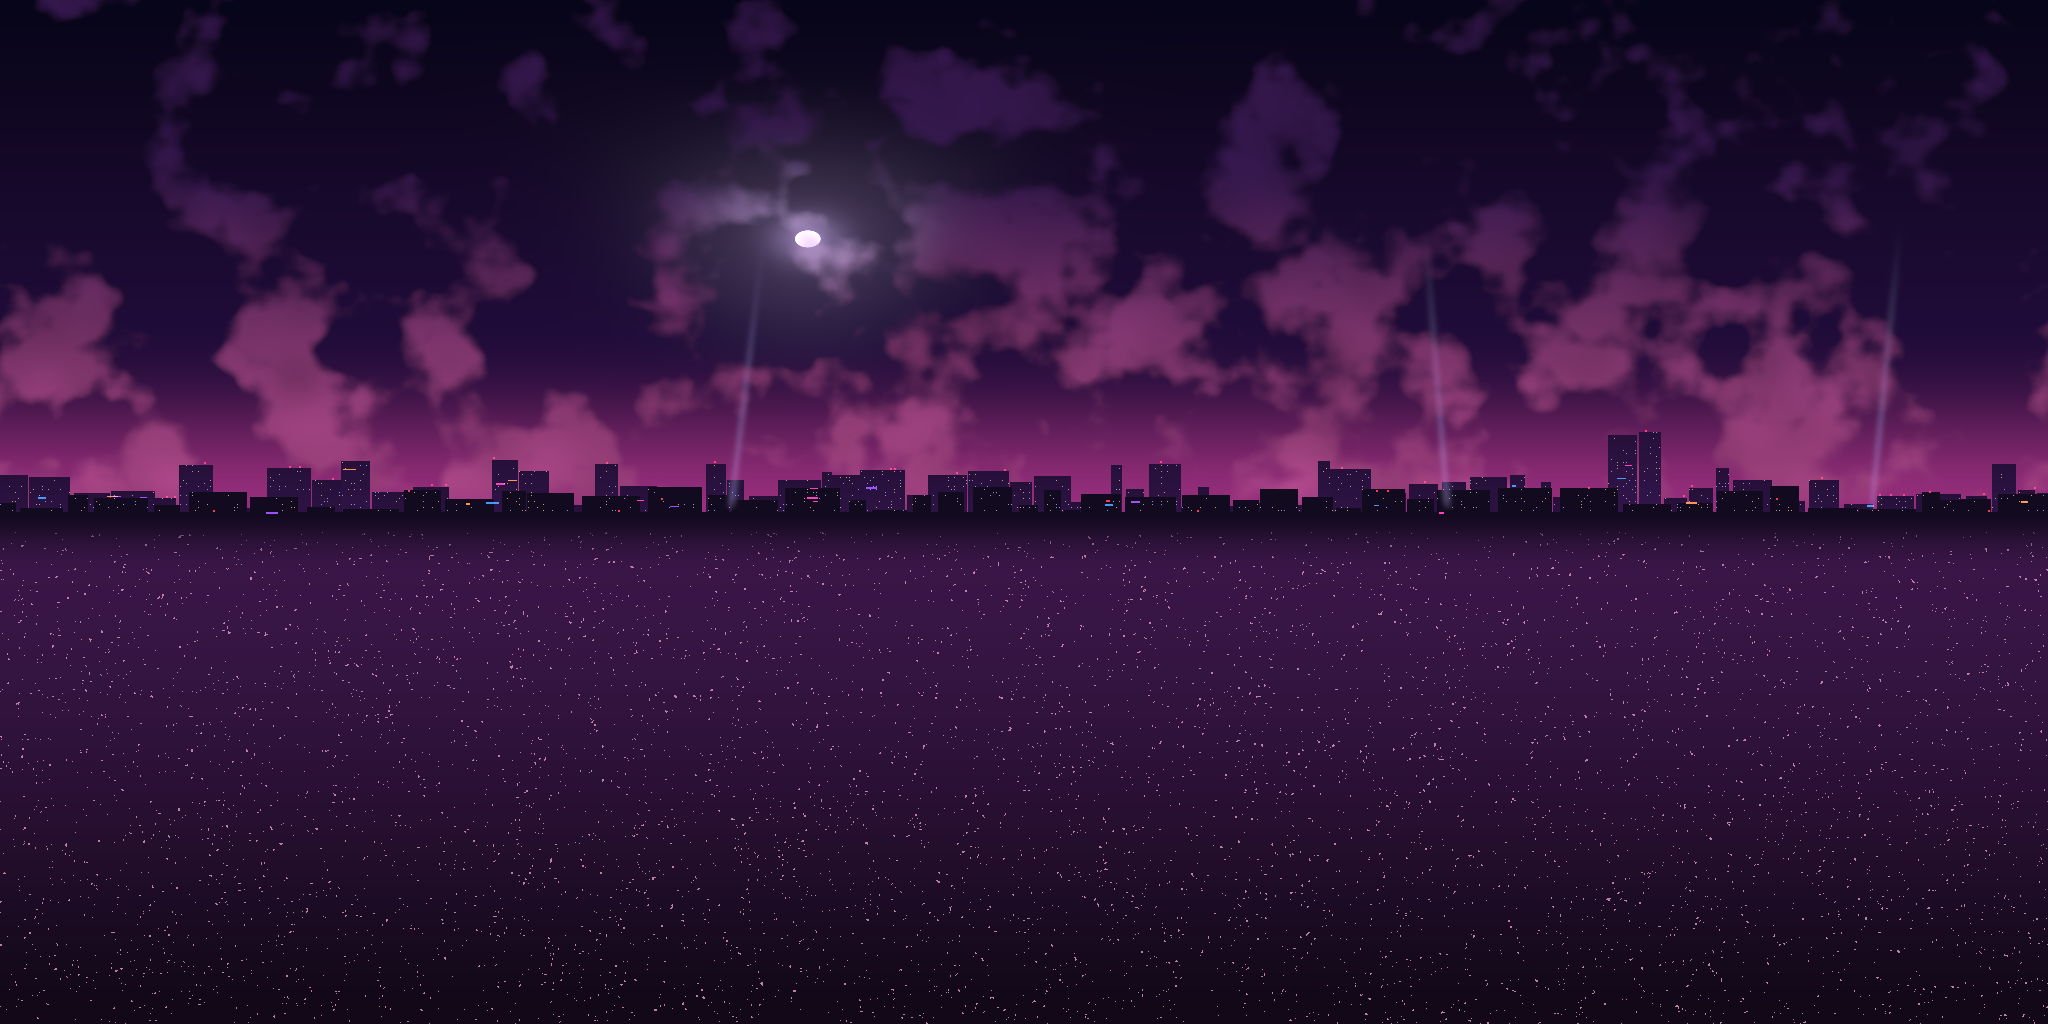
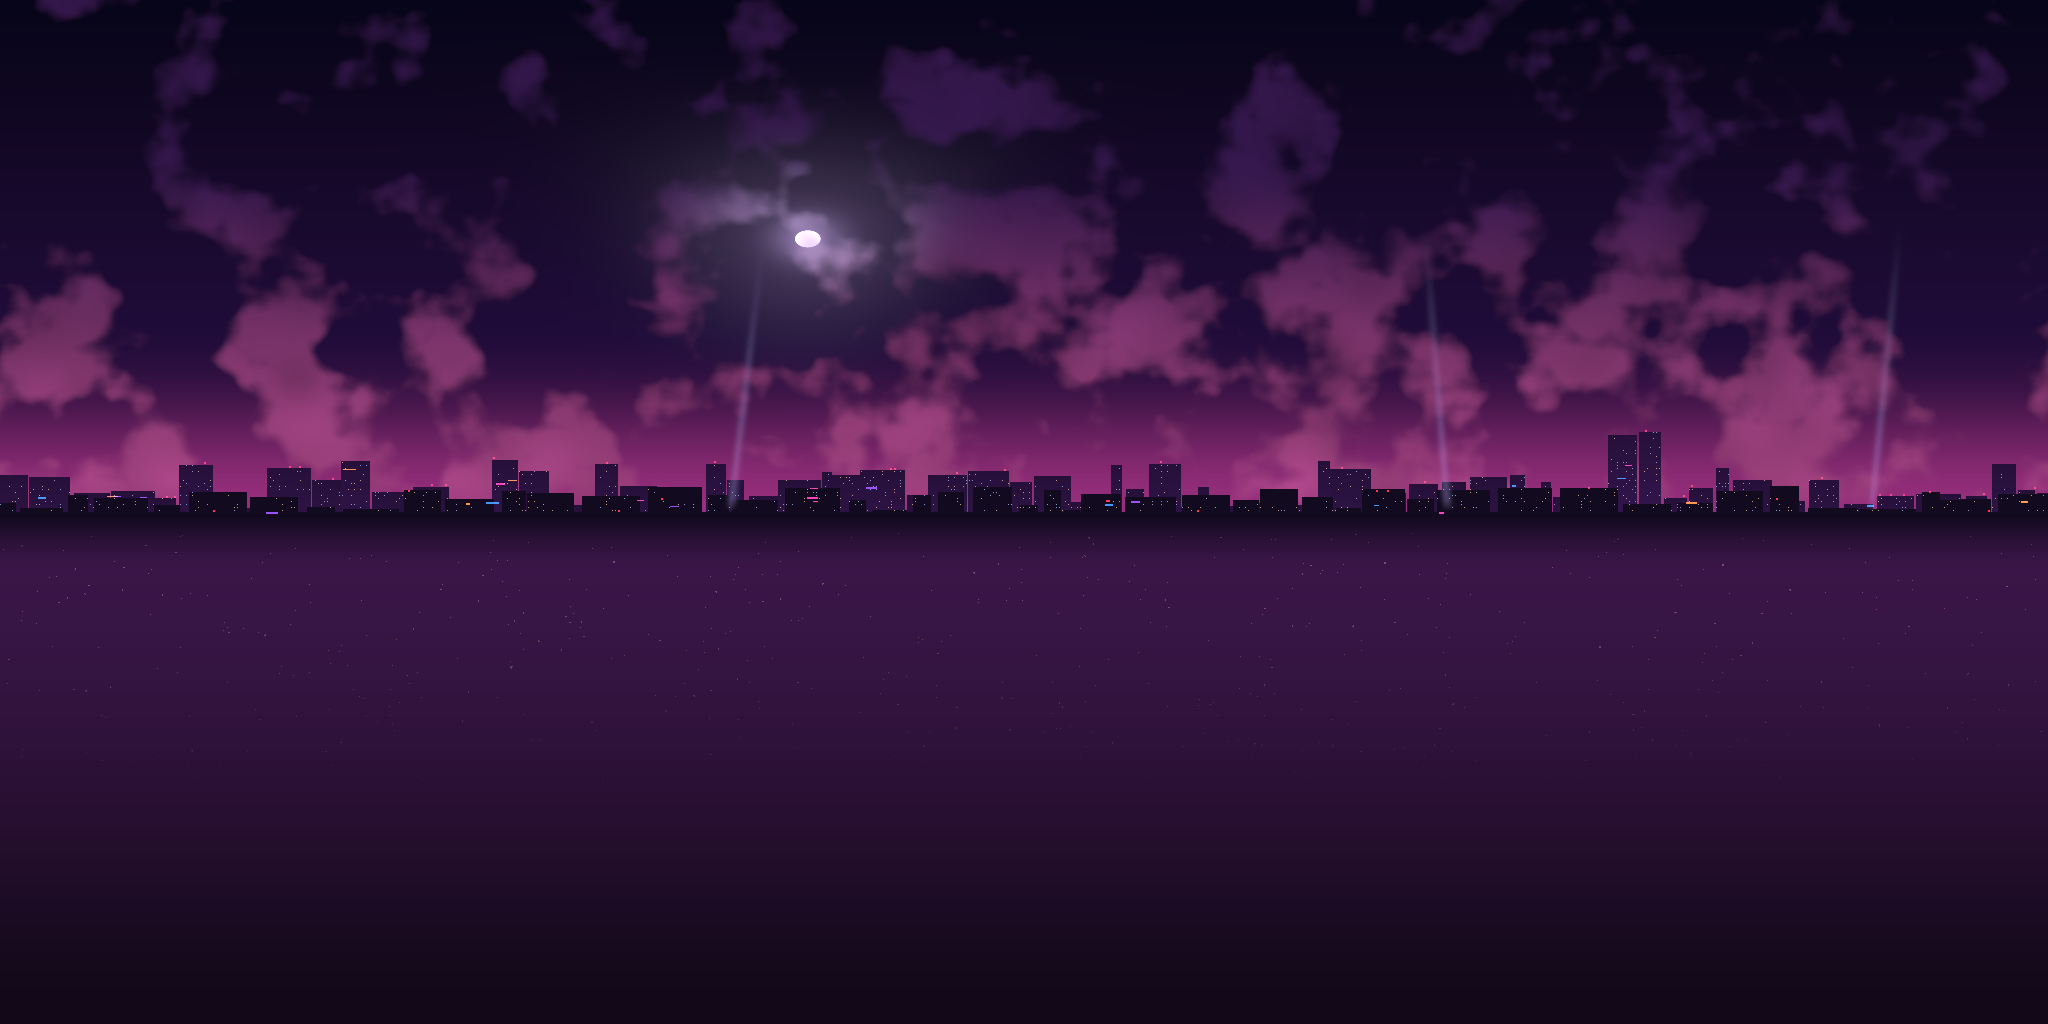
Cité Néon : coque affinée (dalles de tailles mêlées, flaques moins étendues, reflets filtrés, écrans dans les reflets, brume en un seul maillage, taxis visibles, lumière de façade synchronisée)
Claude-Session: https://claude.ai/code/session_01BmWAVzLKtnnuhUYh1cewCY

diff --git a/tools/decor/neon_shell_floor.py b/tools/decor/neon_shell_floor.py
@@ -77,7 +77,8 @@ def build_layout():
 
     fixed = [(HATCH, 9, 4), (HATCH, 25, 10), (SKY, 4, 5), (SKY, 26, 6), (SKY, 18, 12), (GRATE, 12, 9),
              (GRATE, 27, 2), (GRATE, 6, 11), (PLATE, 21, 4), (PLATE, 8, 2), (PLATE, 14, 6), (DRAIN, 10, 10),
-             (DRAIN, 21, 11), (DRAIN, 24, 5), (DRAIN, 7, 7), (DRAIN, 15, 3)]
+             (DRAIN, 21, 11), (DRAIN, 24, 5), (DRAIN, 7, 7), (DRAIN, 15, 3), (SKY, 12, 13), (SKY, 28, 9),
+             (GRATE, 2, 4), (PLATE, 23, 13), (DRAIN, 3, 12), (DRAIN, 28, 12)]
     for k, c, r in fixed:
         w, h = KIND_CELLS[k]
         if free(c, r, w, h) and not near_heli(c, r, w, h):
@@ -89,8 +90,13 @@ def build_layout():
                 continue
             if memb[r, c]:
                 put(c, r, 1, 1, MEMB, 1)
-            else:
-                put(c, r, 1, 1, SLAB, 0)
+                continue
+            # dalles de tailles mêlées : 1 x 1, 2 x 1, 1 x 2, 2 x 2
+            u = R.random()
+            w, h = (1, 1) if u < 0.5 else ((2, 1) if u < 0.7 else ((1, 2) if u < 0.85 else (2, 2)))
+            while (w > 1 or h > 1) and not (free(c, r, w, h) and not memb[r:r + h, c:c + w].any()):
+                w, h = (1, h) if w > 1 else (w, 1)
+            put(c, r, w, h, SLAB, 0)
     # données par pièce : graine, variante (0 d'origine, 1 refaite, 2 fissurée, 3 écornée)
     for p in panels:
         p.append(int(R.integers(0, 256)))

diff --git a/tools/decor/neon_shell_sky.py b/tools/decor/neon_shell_sky.py
@@ -95,8 +95,8 @@ def main():
     # sous l'horizon : brume rose de la ville, scintillements
     below = smoothstep(0.5, 0.56, v)
     haze = (srgb("#3a1648") ** 2.2) * (1 - smoothstep(0.5, 1.0, v))[..., None] + srgb("#120818") ** 2.2 * smoothstep(0.5, 1.0, v)[..., None]
-    dots = (blur_noise(PH, PW, 0.7, 807) > 2.3) & (v > 0.52)
-    haze = haze + dots[..., None] * (srgb("#ffb0d8") ** 2.2) * 0.5
+    dots = (blur_noise(PH, PW, 0.7, 807) > 3.0) & (v > 0.52)
+    haze = haze + dots[..., None] * (srgb("#ffb0d8") ** 2.2) * 0.18 * (1 - smoothstep(0.5, 0.8, v))[..., None]
     sky = sky * (1 - below[..., None]) + haze * below[..., None]
     # faisceaux de projecteurs
     for (a0, sp) in ((-0.9, 0.12), (1.3, -0.08), (2.6, 0.1)):
